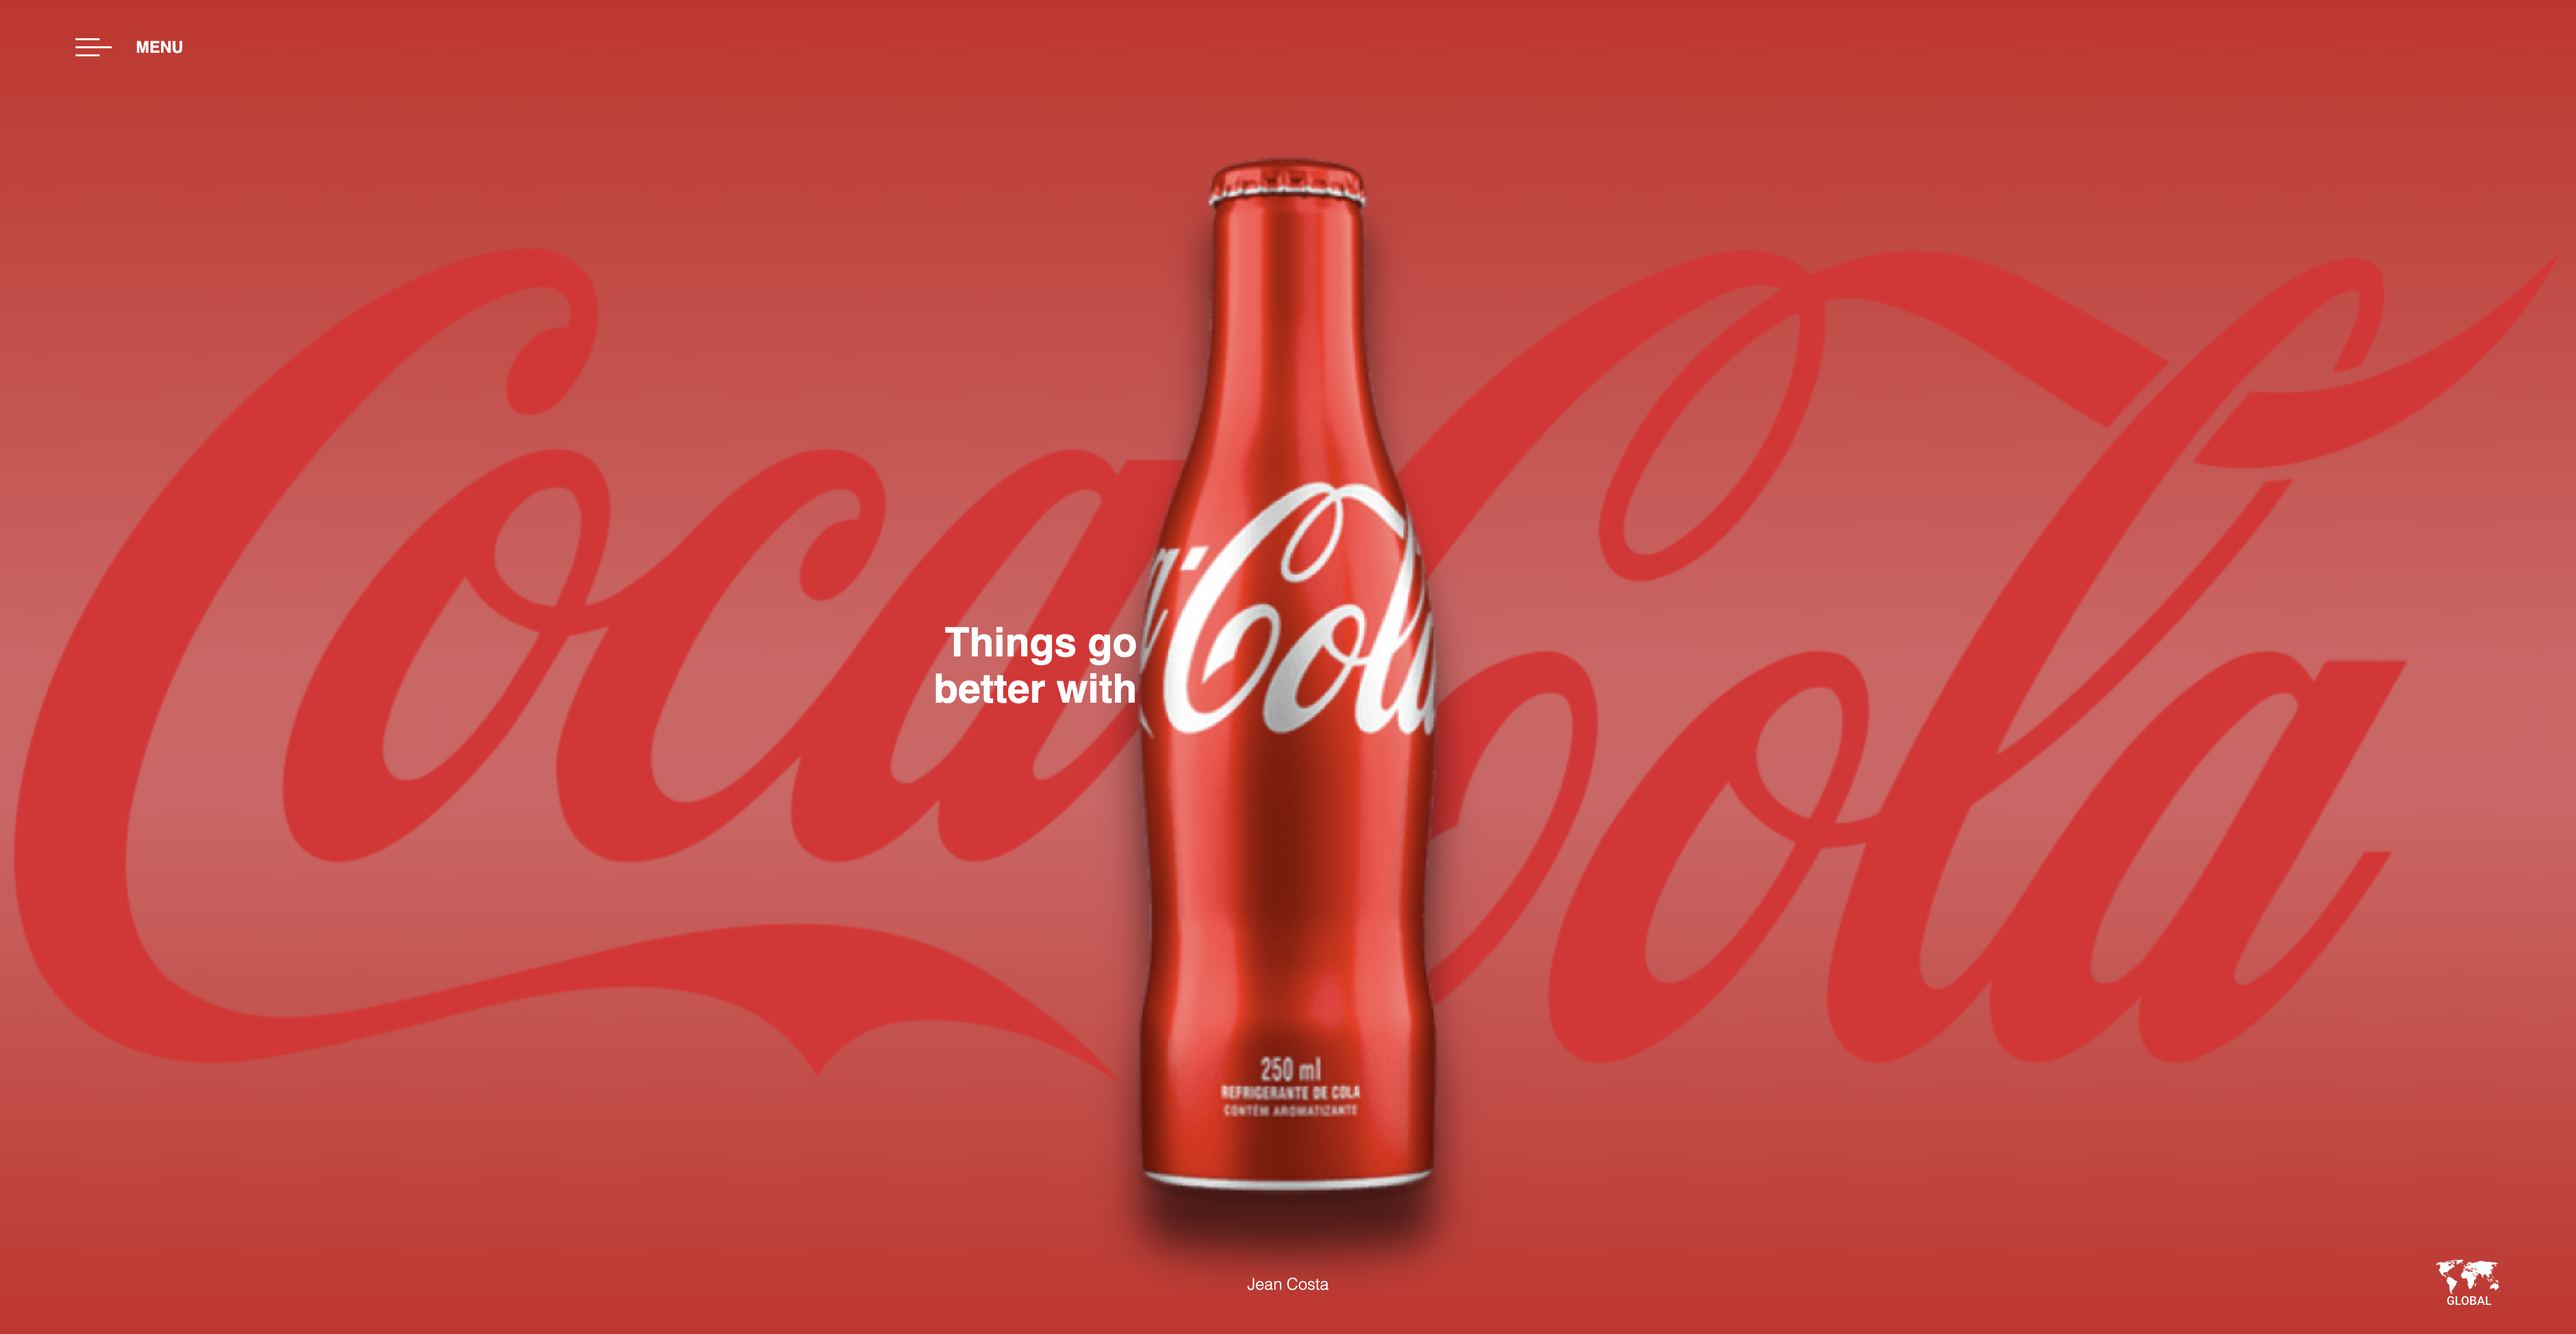
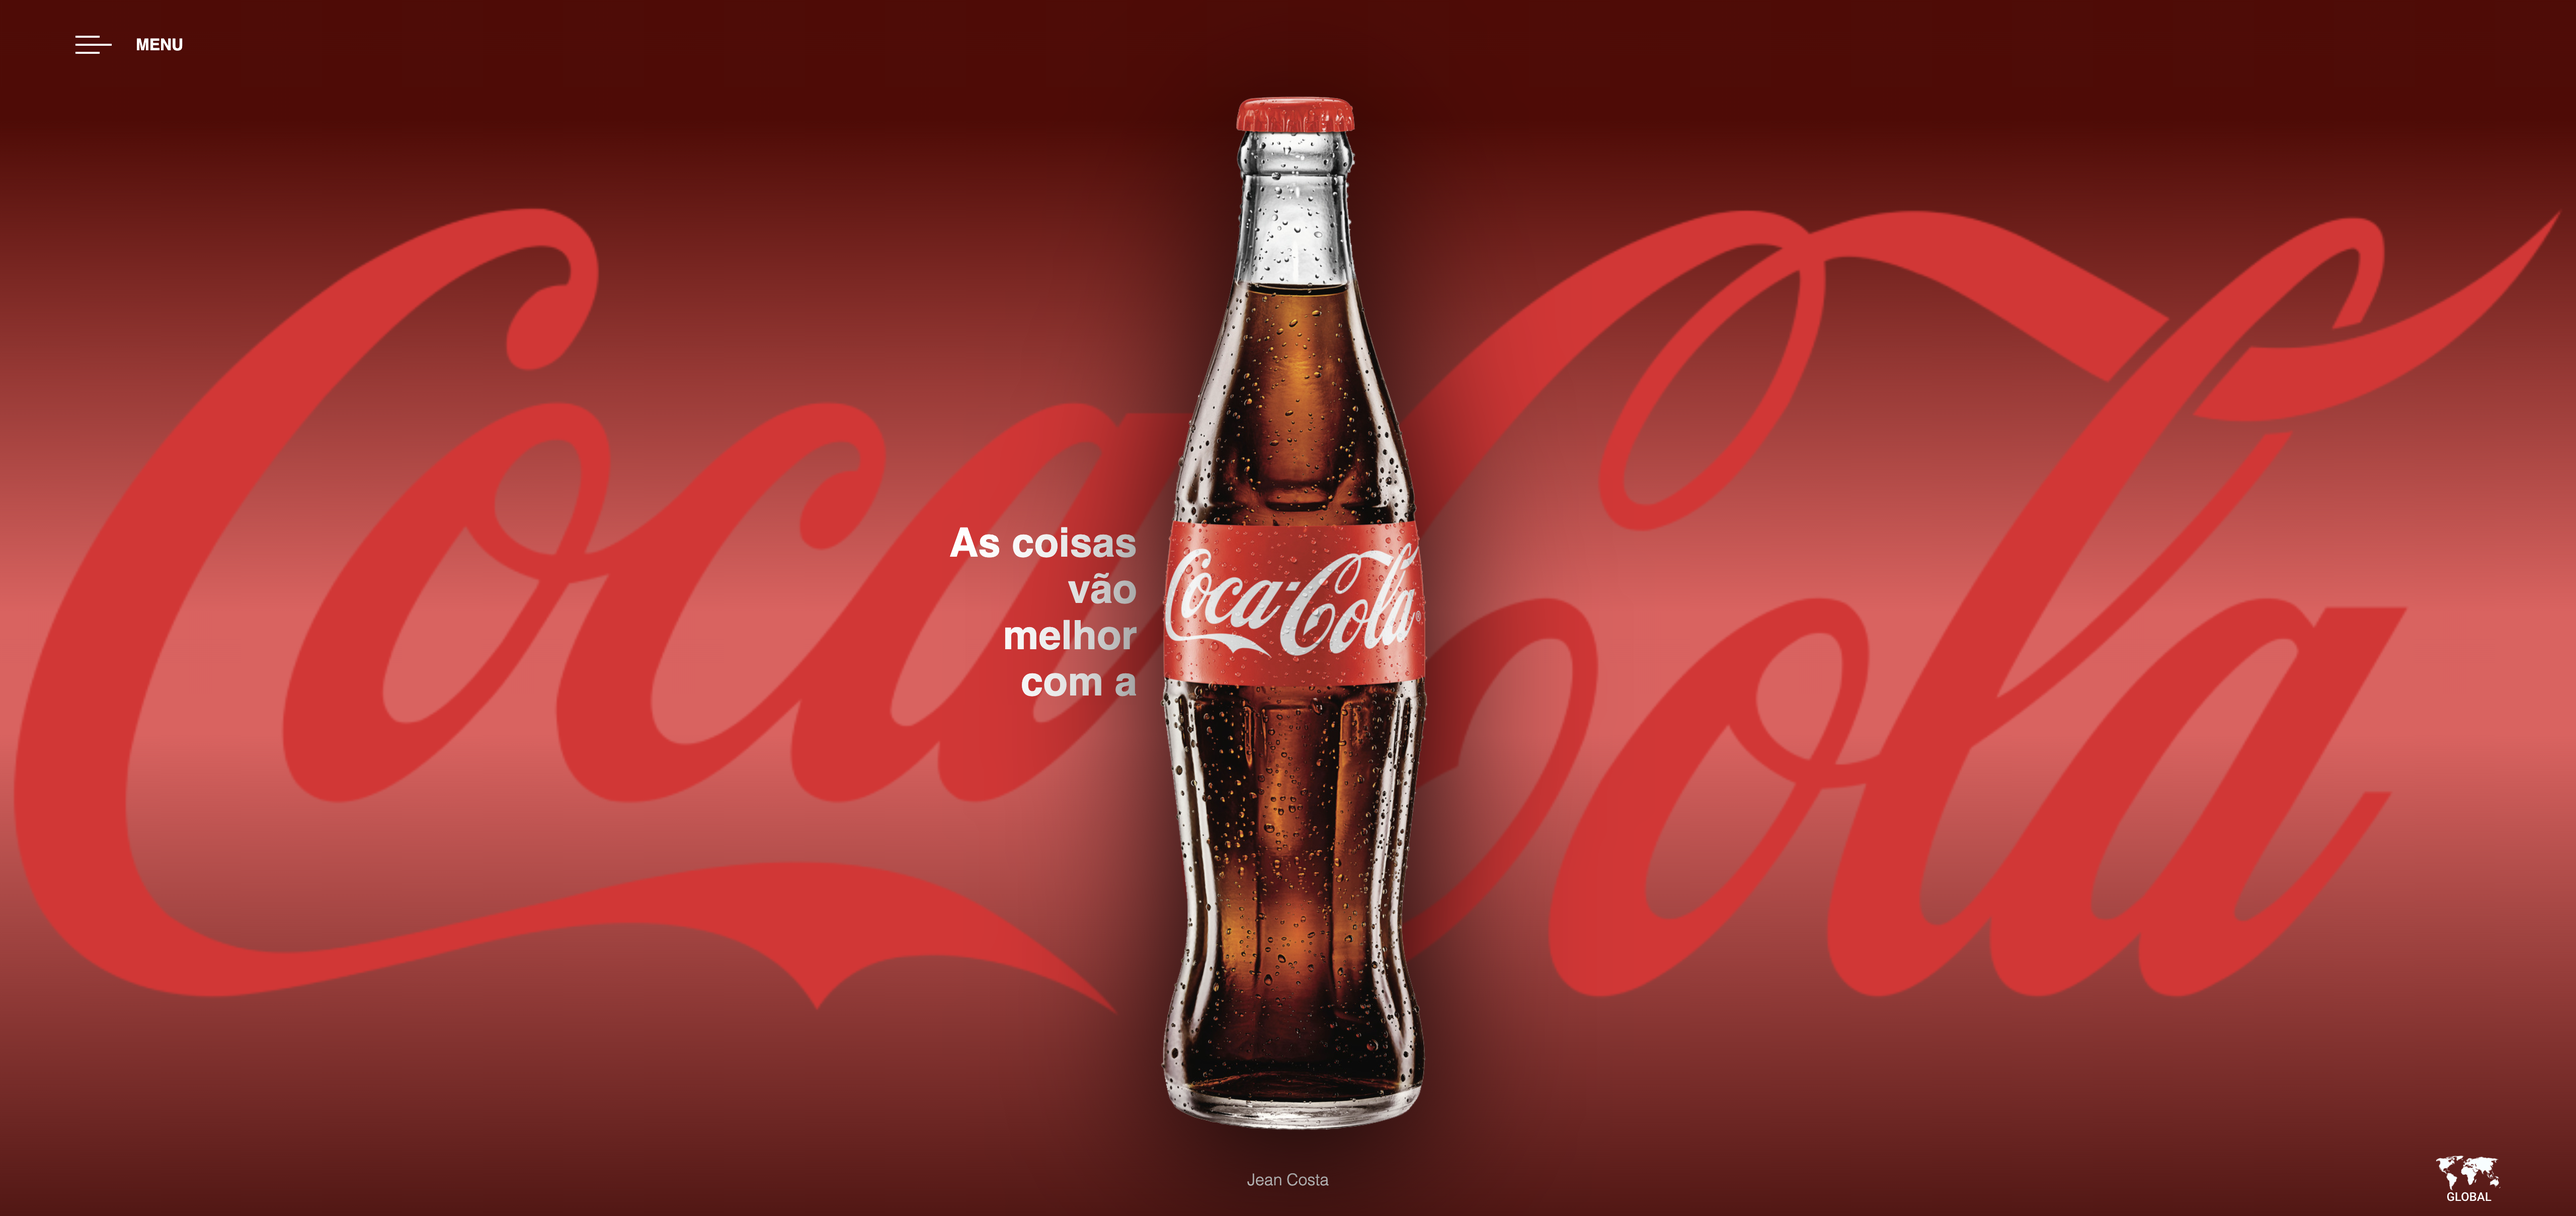
Ajustando imagem

diff --git a/style.css b/style.css
@@ -7,7 +7,7 @@
 body{
     width: 100vw;
     height: 100vh;
-    background: linear-gradient(#CF2425, #DA6062 50%, #DA6062 60%,#CF2425);
+    background: linear-gradient(#570101 10%, #ec595b  50%, #ec595b 60%,#570f0f 100%);
     display: flex;
     flex-direction: column;
     font-family: 'Montserrat', sans-serif;
@@ -51,14 +51,14 @@ main{
     font-size: 2.5rem;
     width: 240px;
     transform: translateX(-100%);
-    text-align: end;
+    text-align: right;
     padding-right: 30px;
 }
 
 .content-image{
     height: 85vh;
-    filter: drop-shadow(0px 60px 20px rgba(0,0,0,0.6));
-    z-index: -1;
+    filter: drop-shadow(0px 30px 80px rgb(0, 0, 0));
+
 }
 
 

diff --git a/index.html b/index.html
@@ -14,7 +14,7 @@
 
    <main>
         <img src="./img/background-image.png" alt="logo da coca-cola" class="background-logo">
-        <h2 class="content-text">Things go better with</h2>
+        <h2 class="content-text">As coisas vão melhor com a</h2>
         <img src="./img/coca-cola.png" alt="garrafa coca-cola" class="content-image">
     </main>
 
